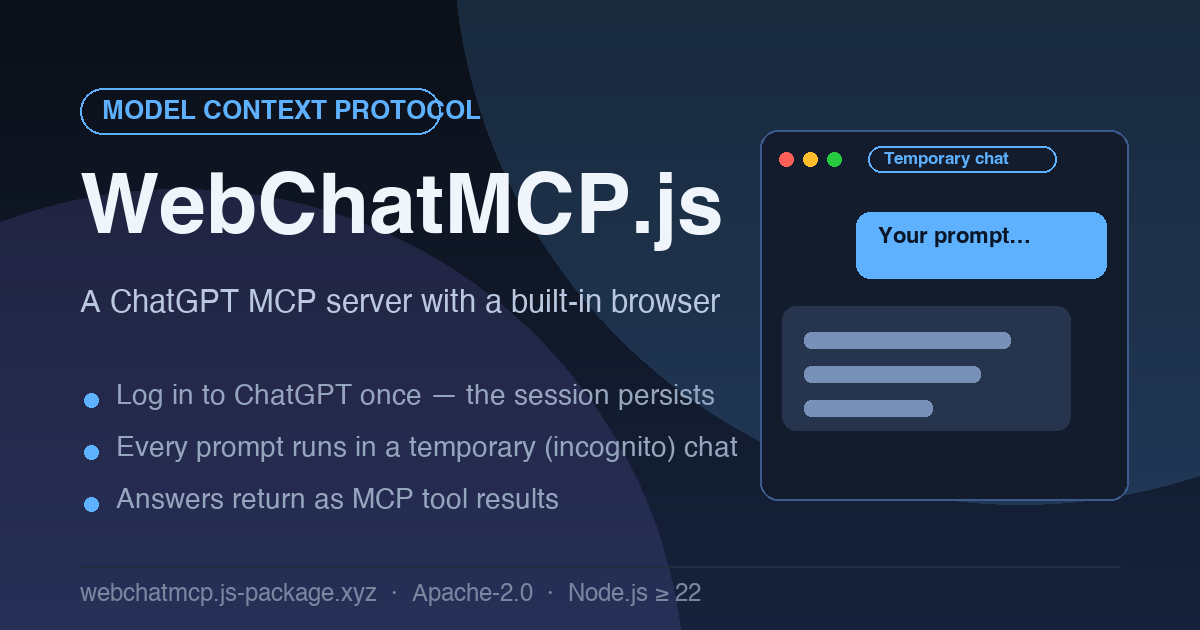
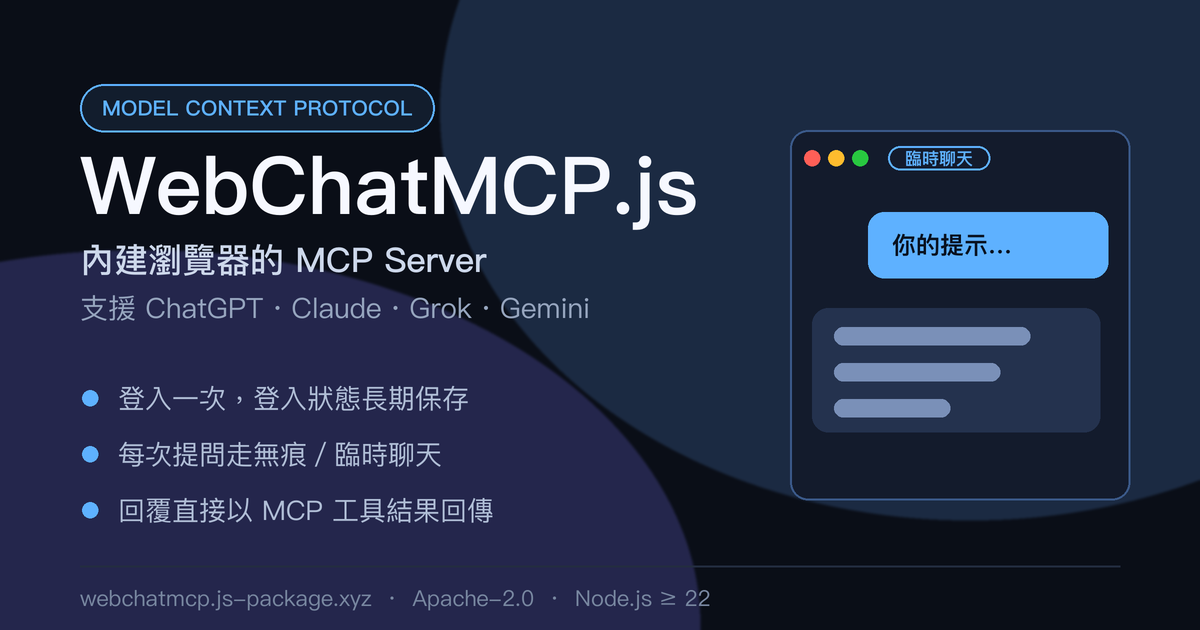
M2: 官網加入安裝／更新說明與中文分享標籤、中文分享圖

diff --git a/index.html b/index.html
@@ -3,22 +3,27 @@
 <head>
 <meta charset="utf-8">
 <meta name="viewport" content="width=device-width, initial-scale=1">
-<title>WebChatMCP.js — 內建瀏覽器的 ChatGPT MCP Server</title>
-<meta name="description" content="WebChatMCP.js：內建持久化瀏覽器的 MCP Server。登入 ChatGPT 一次，之後每次呼叫把提示送進臨時（無痕）聊天並回傳回覆。">
-<link rel="icon" href="favicon.ico" sizes="16x16 32x32 48x48">
-<meta property="og:title" content="WebChatMCP.js — ChatGPT MCP Server with a built-in browser">
-<meta property="og:description" content="Log in to ChatGPT once. Every prompt runs in a temporary (incognito) chat and returns as an MCP tool result.">
-<meta property="og:url" content="https://webchatmcp.js-package.xyz">
+<title>WebChatMCP.js — ChatGPT／Claude／Grok／Gemini 的 MCP Server</title>
+<meta name="description" content="WebChatMCP.js：內建持久化瀏覽器的 MCP Server，支援 ChatGPT、Claude、Grok、Gemini。每次呼叫把提示送進無痕／臨時聊天並回傳回覆，ChatGPT 與 Gemini 不登入也能用。">
+<link rel="canonical" href="https://webchatmcp.js-package.xyz/">
+<meta name="theme-color" content="#0b0f17">
+<link rel="icon" href="/favicon.ico" sizes="16x16 32x32 48x48">
+<meta property="og:title" content="WebChatMCP.js — ChatGPT／Claude／Grok／Gemini 的 MCP Server">
+<meta property="og:description" content="內建瀏覽器的 MCP Server：提示一律走無痕／臨時聊天，回覆以工具結果回傳；可列出模型與思考深度，支援背景服務與一鍵更新。">
+<meta property="og:url" content="https://webchatmcp.js-package.xyz/">
 <meta property="og:type" content="website">
+<meta property="og:locale" content="zh_TW">
 <meta property="og:site_name" content="WebChatMCP.js">
 <meta property="og:image" content="https://webchatmcp.js-package.xyz/assets/social/og.png">
+<meta property="og:image:type" content="image/png">
 <meta property="og:image:width" content="1200">
 <meta property="og:image:height" content="630">
-<meta property="og:image:alt" content="WebChatMCP.js — a ChatGPT MCP server with a built-in browser">
+<meta property="og:image:alt" content="WebChatMCP.js — 內建瀏覽器的 MCP Server，支援 ChatGPT、Claude、Grok、Gemini">
 <meta name="twitter:card" content="summary_large_image">
-<meta name="twitter:title" content="WebChatMCP.js — ChatGPT MCP Server with a built-in browser">
-<meta name="twitter:description" content="Log in to ChatGPT once. Every prompt runs in a temporary (incognito) chat and returns as an MCP tool result.">
+<meta name="twitter:title" content="WebChatMCP.js — ChatGPT／Claude／Grok／Gemini 的 MCP Server">
+<meta name="twitter:description" content="內建瀏覽器的 MCP Server：提示一律走無痕／臨時聊天，回覆以工具結果回傳；可列出模型與思考深度。">
 <meta name="twitter:image" content="https://webchatmcp.js-package.xyz/assets/social/og.png">
+<meta name="twitter:image:alt" content="WebChatMCP.js — 內建瀏覽器的 MCP Server，支援 ChatGPT、Claude、Grok、Gemini">
 <style>
   :root {
     --bg: #0b0f17;
@@ -111,9 +116,9 @@
     <div class="badge">MODEL CONTEXT PROTOCOL · NODE.JS ≥ 22 · TYPESCRIPT</div>
     <h1>WebChatMCP.js</h1>
     <p class="tagline">
-      內建持久化瀏覽器的 <strong>ChatGPT MCP Server</strong>。
-      人工登入一次，之後每次呼叫把提示送進 ChatGPT <strong>臨時（無痕）聊天</strong>，
-      回覆直接以工具結果回傳——不寫入帳號聊天紀錄。
+      內建持久化瀏覽器的 <strong>網頁聊天 MCP Server</strong>，支援 <strong>ChatGPT、Claude、Grok、Gemini</strong>。
+      每次呼叫把提示送進<strong>無痕／臨時聊天</strong>，回覆直接以工具結果回傳——
+      不寫入帳號聊天紀錄，還能列出模型與思考深度。
     </p>
     <div class="links">
       <a class="btn primary" href="https://github.com/JS-PACKAGE/WebChatMCP.js">GitHub 原始碼</a>
@@ -126,8 +131,8 @@
     <h2>為什麼需要它</h2>
     <div class="grid">
       <div class="card">
-        <h3>登入一次，永久有效</h3>
-        <p>內建瀏覽器以持久化 profile 保存 ChatGPT 登入狀態，伺服器重啟不必重新登入。</p>
+        <h3>四個服務，一個 MCP</h3>
+        <p>ChatGPT、Claude、Grok、Gemini 共用同一個內建瀏覽器 profile，每個工具用 <code>provider</code> 選服務；ChatGPT、Gemini 不登入也能用。</p>
       </div>
       <div class="card">
         <h3>一律走臨時聊天</h3>
@@ -147,9 +152,9 @@
   <section>
     <h2>運作流程</h2>
     <div class="flow">
-      <div class="step"><div class="num">1</div><p><strong>webchat_login</strong>　開啟內建瀏覽器，使用者在 ChatGPT 人工登入。</p></div>
-      <div class="step"><div class="num">2</div><p><strong>登入持久化</strong>　登入狀態存於本機 profile，重啟不失效。</p></div>
-      <div class="step"><div class="num">3</div><p><strong>webchat_ask</strong>　提示送進全新的臨時聊天，擷取回覆文字回傳。</p></div>
+      <div class="step"><div class="num">1</div><p><strong>webchat_login</strong>　先無頭查詢登入狀態；需要時才開視窗讓使用者人工登入（ChatGPT、Gemini 也可免登入）。</p></div>
+      <div class="step"><div class="num">2</div><p><strong>登入持久化</strong>　登入狀態存於本機 profile，重啟不失效；<code>webchat_logout</code> 可隨時登出。</p></div>
+      <div class="step"><div class="num">3</div><p><strong>webchat_ask</strong>　提示送進全新的無痕聊天，擷取回覆文字回傳；<code>provider</code> 選 ChatGPT／Claude／Grok／Gemini。</p></div>
     </div>
   </section>
 
@@ -174,14 +179,46 @@ npm run build</code></pre>
                                # WEBCHATMCP_HOST=0.0.0.0 開放區網（無認證，慎用）</code></pre>
   </section>
 
+  <section id="install">
+    <h2>自動安裝、背景執行與更新</h2>
+    <p style="color:var(--muted)">
+      <code>script/</code> 內的腳本會補齊 Node.js（沒有或低於 22 時下載官方版本並驗證 SHA-256）、相依套件與內建瀏覽器，
+      建置後註冊成<strong>背景服務</strong>並啟動，不需要系統管理員權限。
+    </p>
+    <table>
+      <tr><th>系統</th><th>腳本</th><th>背景方式</th></tr>
+      <tr><td>macOS</td><td><code>script/install.sh</code></td><td>launchd LaunchAgent（登入時啟動、異常結束自動重啟）</td></tr>
+      <tr><td>Linux</td><td><code>script/install.sh</code></td><td>systemd <code>--user</code>（不可用時退回 <code>nohup</code>）</td></tr>
+      <tr><td>Windows</td><td><code>script/install.ps1</code></td><td>工作排程器（登入時啟動、隱藏視窗、失敗自動重啟）</td></tr>
+    </table>
+    <p style="margin-top:16px; color:var(--muted)">macOS / Linux：</p>
+<pre><code>git clone https://github.com/JS-PACKAGE/WebChatMCP.js.git && cd WebChatMCP.js
+script/install.sh            # 安裝並啟動
+script/install.sh update     # 更新：自動關掉執行中的服務 → git pull → 重新建置 → 重新啟動
+script/install.sh status     # 另有 start / stop / restart / logs
+script/uninstall.sh          # 反安裝（--purge 連 Node.js／日誌／設定一起刪）</code></pre>
+    <p style="margin-top:16px; color:var(--muted)">Windows（PowerShell）：</p>
+<pre><code>git clone https://github.com/JS-PACKAGE/WebChatMCP.js.git; cd WebChatMCP.js
+powershell -ExecutionPolicy Bypass -File script\install.ps1             # 安裝並啟動
+powershell -ExecutionPolicy Bypass -File script\install.ps1 update      # 更新（同上）
+powershell -ExecutionPolicy Bypass -File script\install.ps1 status      # 另有 start / stop / restart / logs
+powershell -ExecutionPolicy Bypass -File script\uninstall.ps1           # 反安裝（-Purge 連 Node.js／日誌／設定一起刪）</code></pre>
+    <ul style="margin-top:16px">
+      <li><strong>更新</strong>會先檢查有沒有新版，沒有就不動；有新版時先關掉執行中的服務與殘留的 <code>WebChatMCP.js</code> 行程（含 MCP 用戶端以 stdio 啟動的實例），更新後再啟動回來。工作區有未提交修改時會中止。</li>
+      <li>服務以 HTTP 提供連線：<code>http://127.0.0.1:8321/mcp</code>；環境變數寫在 <code>~/.webchatmcp/webchatmcp.env</code>，改完 <code>restart</code> 生效。</li>
+      <li>背景服務與 stdio 實例共用同一個瀏覽器 profile，建議只選其中一種連線方式。反安裝預設保留登入 profile。</li>
+    </ul>
+  </section>
+
   <section>
     <h2>工具一覽</h2>
     <table>
       <tr><th>工具</th><th>輸入</th><th>輸出</th></tr>
-      <tr><td><code>webchat_login</code></td><td><code>timeout_seconds?</code></td><td>登入狀態 JSON</td></tr>
-      <tr><td><code>webchat_ask</code></td><td><code>prompt</code>、<code>model?</code>、<code>timeout_seconds?</code></td><td>ChatGPT 回覆文字</td></tr>
-      <tr><td><code>webchat_models</code></td><td>—</td><td>可用模型清單 JSON（<code>label</code>、<code>current</code>）</td></tr>
-      <tr><td><code>webchat_status</code></td><td>—</td><td>瀏覽器／登入／臨時聊天狀態 JSON</td></tr>
+      <tr><td><code>webchat_login</code></td><td><code>provider?</code>、<code>timeout_seconds?</code></td><td>登入狀態 JSON（已登入不開視窗）</td></tr>
+      <tr><td><code>webchat_logout</code></td><td><code>provider?</code></td><td>清除該服務 cookie 並回報登入狀態（不開視窗）</td></tr>
+      <tr><td><code>webchat_ask</code></td><td><code>provider?</code>、<code>prompt</code>、<code>model?</code>、<code>timeout_seconds?</code></td><td>回覆文字</td></tr>
+      <tr><td><code>webchat_models</code></td><td><code>provider?</code></td><td>模型與思考深度清單 JSON（<code>label</code>、<code>current</code>）</td></tr>
+      <tr><td><code>webchat_status</code></td><td><code>provider?</code></td><td>瀏覽器／登入／無痕狀態 JSON</td></tr>
       <tr><td><code>webchat_close</code></td><td>—</td><td>關閉內建瀏覽器（登入保留）</td></tr>
     </table>
   </section>
@@ -189,10 +226,10 @@ npm run build</code></pre>
   <section>
     <h2>安全與資料</h2>
     <ol>
-      <li>伺服器<strong>不讀、不存</strong>任何密碼、cookie 或 token——登入只透過使用者在瀏覽器中人工操作。</li>
+      <li>伺服器<strong>不讀、不存</strong>任何密碼、cookie 或 token——登入只透過使用者在瀏覽器中人工操作；<code>webchat_logout</code> 只清除該服務網域的 cookie。</li>
       <li>HTTP endpoint 無認證，預設只綁 <code>127.0.0.1</code>；以 <code>0.0.0.0</code> 開放區網前，請確認網路可信。</li>
-      <li>提示與回覆會經過 ChatGPT 服務，適用 OpenAI 的資料使用政策。</li>
-      <li>本專案與 OpenAI 無隸屬關係；ChatGPT 為 OpenAI, L.L.C. 的商標。</li>
+      <li>提示與回覆會經過所選服務（ChatGPT、Claude、Grok、Gemini），適用該服務的資料使用政策。</li>
+      <li>本專案與 OpenAI、Anthropic、xAI、Google 皆無隸屬關係；各服務名稱為其所屬公司的商標。</li>
     </ol>
   </section>
 
